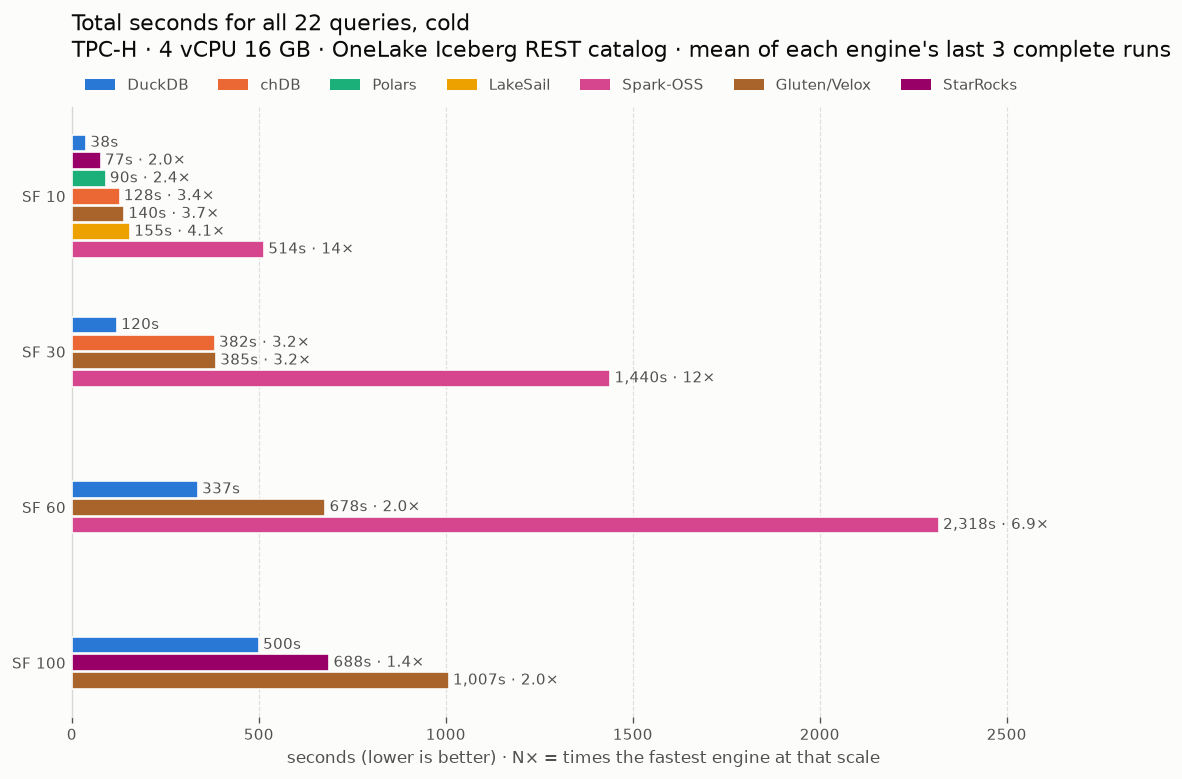
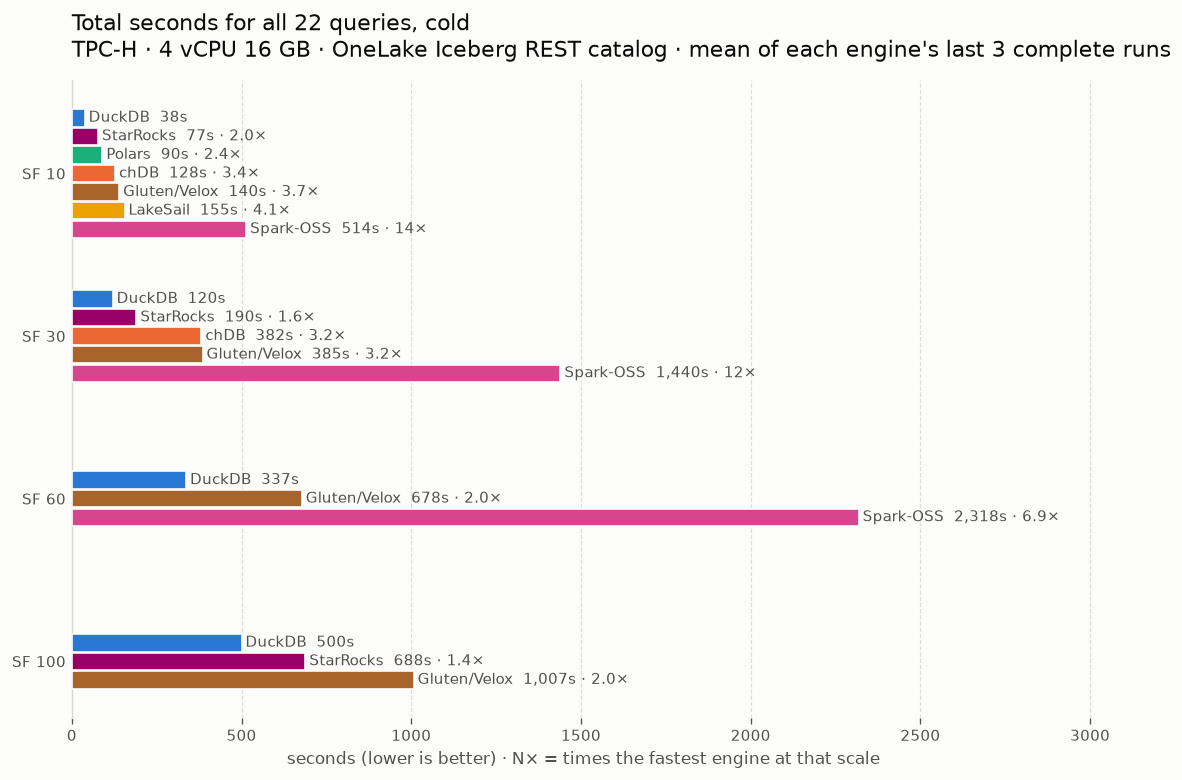
bench: SF=30 results for run 36234264554

diff --git a/docs/RESULTS.md b/docs/RESULTS.md
@@ -51,6 +51,6 @@ Seconds, cold pass. `—` means the query failed; see Failures above.
 
 ## History
 
-897 timed statements across 21 runs.
+920 timed statements across 22 runs.
 Raw data: one immutable JSON per run under [`results/`](../results/), flattened to [`data/tpch_results.csv`](data/tpch_results.csv).
 
